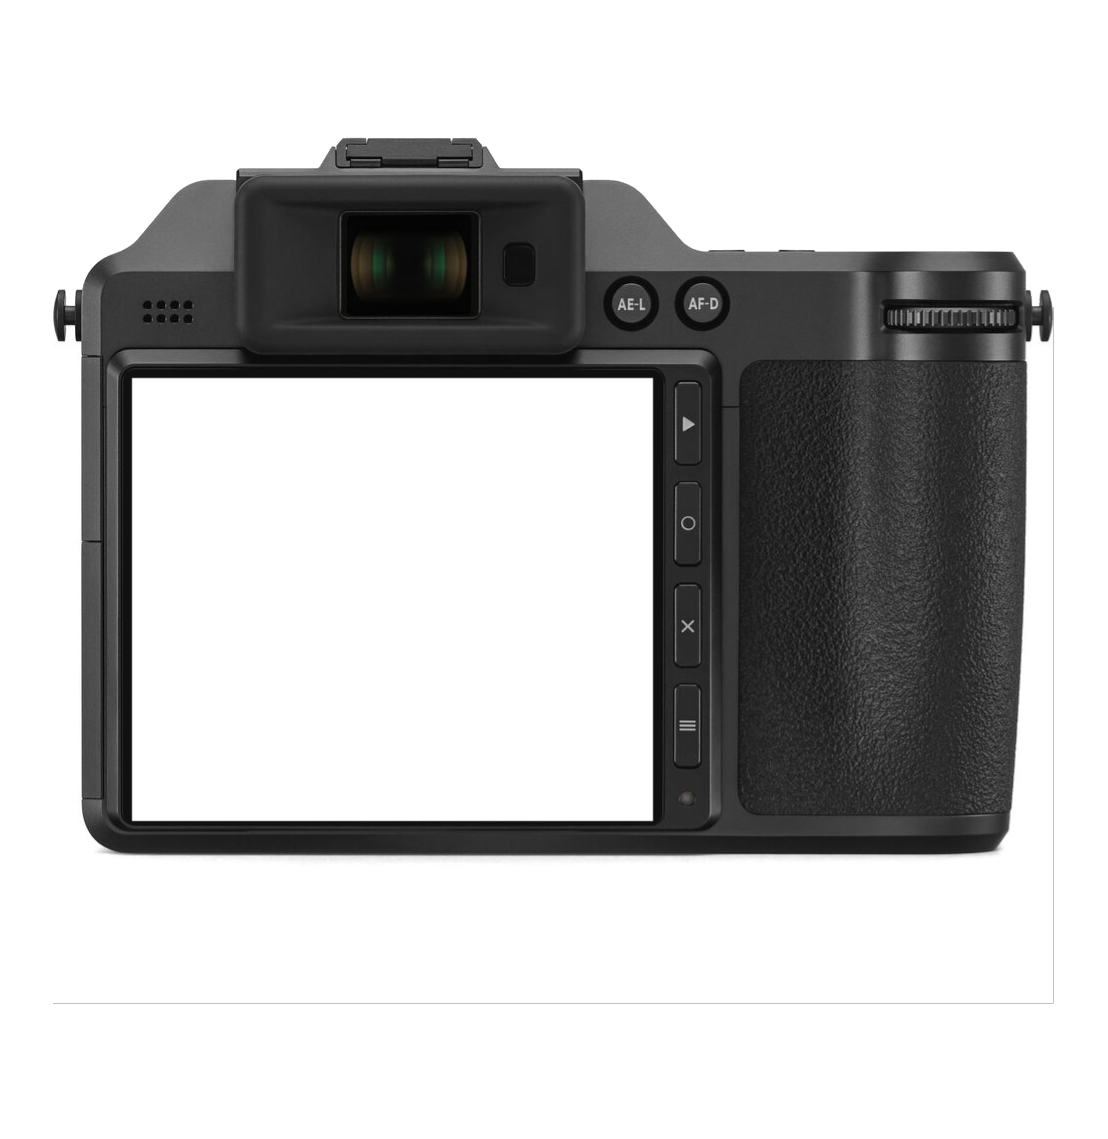
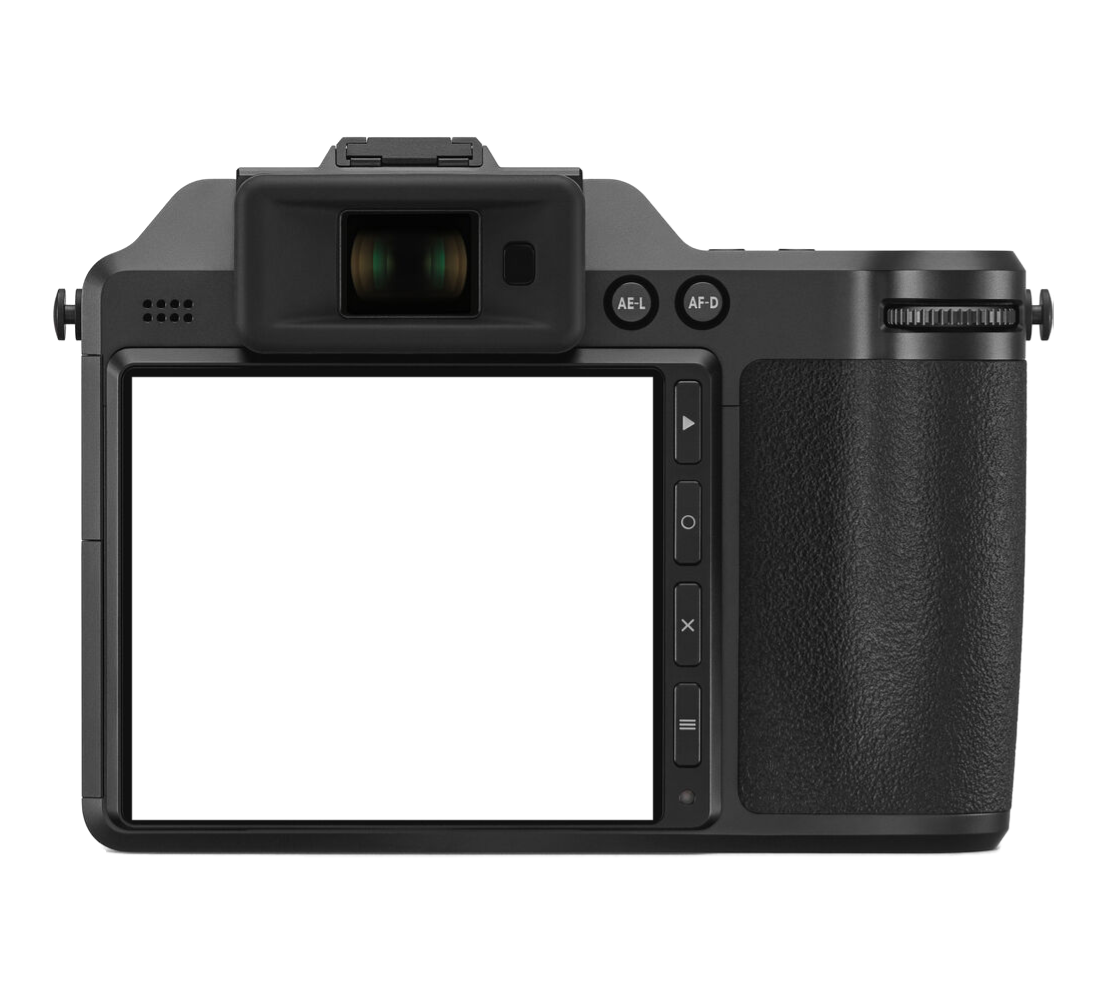
fix(x2d): clean matting for Hasselblad cutouts
- core threshold 190 kills the opaque white fringe and the floor-reflection
  slab below the body (the old 242 threshold let a frame-edge strip connect
  the reflection into the largest component, and hole-fill then painted the
  whole strip white)
- border-padded hole fill so frame-touching regions are not treated as holes
- contour alpha ramp (255-blur)/65 for anti-aliased edges; specular
  highlights re-attached to the body component
- glass quads re-expressed in source coords and re-mapped to the new canvas

diff --git a/README.md b/README.md
@@ -48,8 +48,8 @@ with a verified 4-point LCD quad. The table below is generated by
 | canonr5ii | `Canon EOS R5 Mark II`, `Canon EOS R5m2` | ✓ |
 | d850 | `NIKON D850` | ✓ |
 | lego | — | ✓ |
-| x2d | `HASSELBLAD X2D 100C`, `HASSELBLAD X2D`, `X2D 100C`, `X2D` | ✓ |
-| x2d2 | `HASSELBLAD X2D II 100C`, `HASSELBLAD X2D II`, `X2D II 100C`, `X2D II` | ✓ |
+| x2d | `HASSELBLAD X2D 100C`, `HASSELBLAD X2D`, `X2D 100C`, `X2D`, `X2D2 100C` | ✓ |
+| x2d2 | `HASSELBLAD X2D II 100C`, `HASSELBLAD X2D II`, `X2D II 100C`, `X2D II`, `X2D2 100C` | ✓ |
 | z30 | `NIKON Z 30`, `NIKON Z30` | ✓ |
 | z5 | `NIKON Z 5` | ✓ |
 | z502 | `NIKON Z 50_2`, `NIKON Z50II`, `NIKON Z 50II` | ✓ |

diff --git a/README.zh-CN.md b/README.zh-CN.md
@@ -48,8 +48,8 @@ python3 cli/watermark.py path/to/DSC_xxxx.JPG [--body z63]
 | canonr5ii | `Canon EOS R5 Mark II`, `Canon EOS R5m2` | ✓ |
 | d850 | `NIKON D850` | ✓ |
 | lego | — | ✓ |
-| x2d | `HASSELBLAD X2D 100C`, `HASSELBLAD X2D`, `X2D 100C`, `X2D` | ✓ |
-| x2d2 | `HASSELBLAD X2D II 100C`, `HASSELBLAD X2D II`, `X2D II 100C`, `X2D II` | ✓ |
+| x2d | `HASSELBLAD X2D 100C`, `HASSELBLAD X2D`, `X2D 100C`, `X2D`, `X2D2 100C` | ✓ |
+| x2d2 | `HASSELBLAD X2D II 100C`, `HASSELBLAD X2D II`, `X2D II 100C`, `X2D II`, `X2D2 100C` | ✓ |
 | z30 | `NIKON Z 30`, `NIKON Z30` | ✓ |
 | z5 | `NIKON Z 5` | ✓ |
 | z502 | `NIKON Z 50_2`, `NIKON Z50II`, `NIKON Z 50II` | ✓ |
